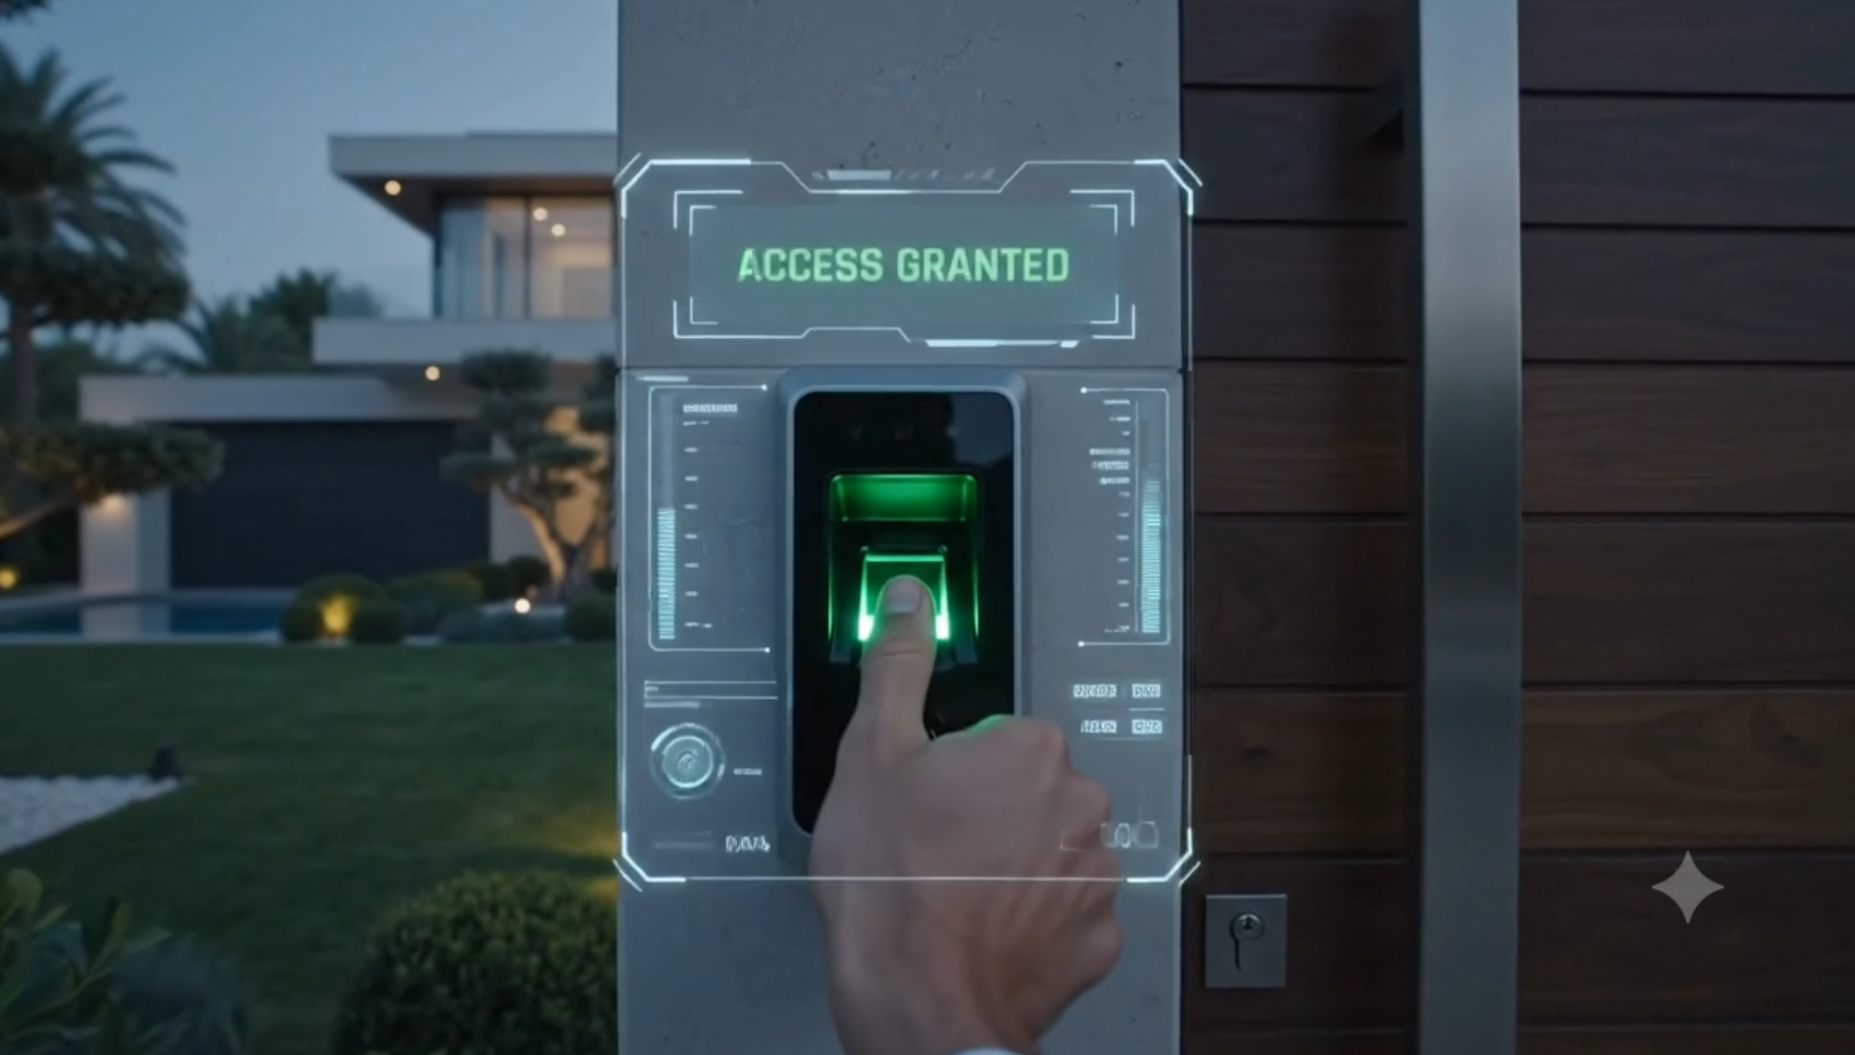
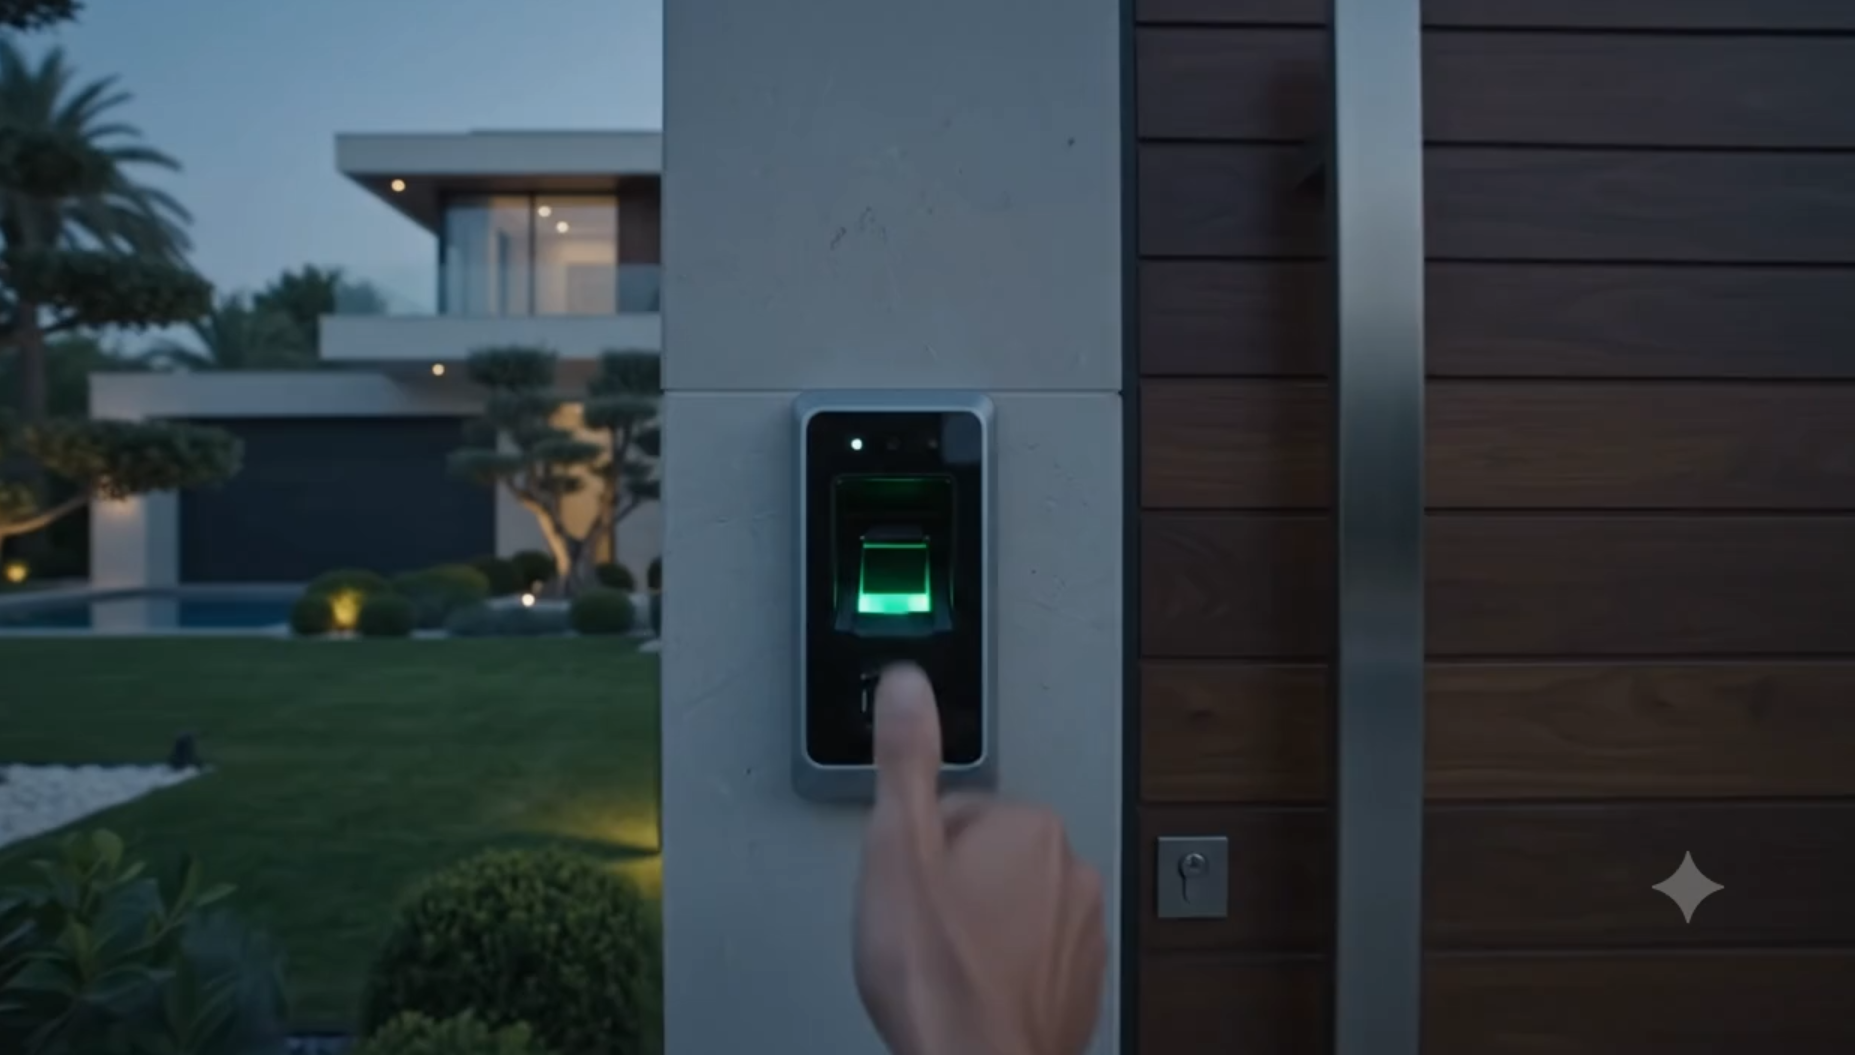
updated poster video. Spiner

diff --git a/index.html b/index.html
@@ -153,7 +153,14 @@
                     <video class="w-full h-full object-cover" muted loop playsinline poster="videos/poster-video1.png">
                         <source data-src="videos/video1.mp4" type="video/mp4">
                     </video>
-                    <div class="absolute inset-0 bg-gradient-to-t from-black/40 to-transparent"></div>
+                    <div class="absolute inset-0 bg-gradient-to-t from-black/40 to-transparent z-10"></div>
+                    <!-- Spinner de carga -->
+                    <div class="video-loader absolute inset-0 flex items-center justify-center z-20 pointer-events-none transition-opacity duration-500 bg-black/20">
+                        <svg class="animate-spin h-12 w-12 text-oroChampagne" xmlns="http://www.w3.org/2000/svg" fill="none" viewBox="0 0 24 24">
+                            <circle class="opacity-25" cx="12" cy="12" r="10" stroke="currentColor" stroke-width="4"></circle>
+                            <path class="opacity-75" fill="currentColor" d="M4 12a8 8 0 018-8V0C5.373 0 0 5.373 0 12h4zm2 5.291A7.962 7.962 0 014 12H0c0 3.042 1.135 5.824 3 7.938l3-2.647z"></path>
+                        </svg>
+                    </div>
                 </div>
                 <div class="w-full md:w-1/2">
                     <h3 class="text-2xl font-bold mb-4" data-i18n="vid1_title">Acceso Biométrico y Bienvenida Inteligente</h3>
@@ -167,7 +174,14 @@
                     <video class="w-full h-full object-cover" muted loop playsinline poster="videos/poster-video2.png">
                         <source data-src="videos/video2.mp4" type="video/mp4">
                     </video>
-                    <div class="absolute inset-0 bg-gradient-to-t from-black/40 to-transparent"></div>
+                    <div class="absolute inset-0 bg-gradient-to-t from-black/40 to-transparent z-10"></div>
+                    <!-- Spinner de carga -->
+                    <div class="video-loader absolute inset-0 flex items-center justify-center z-20 pointer-events-none transition-opacity duration-500 bg-black/20">
+                        <svg class="animate-spin h-12 w-12 text-oroChampagne" xmlns="http://www.w3.org/2000/svg" fill="none" viewBox="0 0 24 24">
+                            <circle class="opacity-25" cx="12" cy="12" r="10" stroke="currentColor" stroke-width="4"></circle>
+                            <path class="opacity-75" fill="currentColor" d="M4 12a8 8 0 018-8V0C5.373 0 0 5.373 0 12h4zm2 5.291A7.962 7.962 0 014 12H0c0 3.042 1.135 5.824 3 7.938l3-2.647z"></path>
+                        </svg>
+                    </div>
                 </div>
                 <div class="w-full md:w-1/2">
                     <h3 class="text-2xl font-bold mb-4" data-i18n="vid2_title">Acceso Vehicular sin Fricción</h3>
@@ -181,7 +195,14 @@
                     <video class="w-full h-full object-cover" muted loop playsinline poster="videos/poster-video3.png">
                         <source data-src="videos/video3.mp4" type="video/mp4">
                     </video>
-                    <div class="absolute inset-0 bg-gradient-to-t from-black/40 to-transparent"></div>
+                    <div class="absolute inset-0 bg-gradient-to-t from-black/40 to-transparent z-10"></div>
+                    <!-- Spinner de carga -->
+                    <div class="video-loader absolute inset-0 flex items-center justify-center z-20 pointer-events-none transition-opacity duration-500 bg-black/20">
+                        <svg class="animate-spin h-12 w-12 text-oroChampagne" xmlns="http://www.w3.org/2000/svg" fill="none" viewBox="0 0 24 24">
+                            <circle class="opacity-25" cx="12" cy="12" r="10" stroke="currentColor" stroke-width="4"></circle>
+                            <path class="opacity-75" fill="currentColor" d="M4 12a8 8 0 018-8V0C5.373 0 0 5.373 0 12h4zm2 5.291A7.962 7.962 0 014 12H0c0 3.042 1.135 5.824 3 7.938l3-2.647z"></path>
+                        </svg>
+                    </div>
                 </div>
                 <div class="w-full md:w-1/2">
                     <h3 class="text-2xl font-bold mb-4" data-i18n="vid3_title">Respuesta Climática Autónoma</h3>
@@ -369,7 +390,7 @@
         }, scrollOptions);
         sections.forEach(section => { observer.observe(section); });
 
-        // 5. Lógica del Carrusel del Showroom (Rotación cada 10s y Lazy Load)
+        // 5. Lógica del Carrusel del Showroom y Spinner
         let currentSlide = 0;
         const totalSlides = 3;
         let slideInterval;
@@ -382,7 +403,6 @@
                     slide.classList.remove('opacity-0', 'z-0', 'pointer-events-none');
                     slide.classList.add('opacity-100', 'z-10');
                     
-                    // Carga diferida del vídeo
                     const source = video.querySelector('source');
                     if (!video.src && source.dataset.src) {
                         source.src = source.dataset.src;
@@ -396,7 +416,6 @@
                 }
             });
 
-            // Actualizar los puntos indicadores
             document.querySelectorAll('.slide-dot').forEach((dot, i) => {
                 dot.className = i === index 
                     ? 'w-3 h-3 rounded-full bg-oroChampagne transition slide-dot cursor-pointer' 
@@ -409,17 +428,14 @@
             goToSlide((currentSlide + 1) % totalSlides);
         }
 
-        // Observador específico para iniciar/pausar el carrusel cuando esté a la vista
         const showroomSection = document.getElementById('showroom');
         const showroomObserver = new IntersectionObserver((entries) => {
             entries.forEach(entry => {
                 if (entry.isIntersecting) {
                     isShowroomVisible = true;
-                    // Iniciar el intervalo y asegurar que el vídeo actual se reproduce
                     slideInterval = setInterval(nextSlide, 10000);
                     const currentVideo = document.querySelectorAll('.carousel-slide')[currentSlide].querySelector('video');
                     
-                    // Aseguramos que el primer video cargue si el usuario baja rápido
                     const source = currentVideo.querySelector('source');
                     if (!currentVideo.src && source.dataset.src) {
                         source.src = source.dataset.src;
@@ -429,7 +445,6 @@
                 } else {
                     isShowroomVisible = false;
                     clearInterval(slideInterval);
-                    // Pausar vídeos para no consumir recursos
                     const currentVideo = document.querySelectorAll('.carousel-slide')[currentSlide].querySelector('video');
                     currentVideo.pause();
                 }
@@ -438,7 +453,6 @@
         
         if (showroomSection) showroomObserver.observe(showroomSection);
 
-        // Control manual a través de los puntos
         document.querySelectorAll('.slide-dot').forEach(dot => {
             dot.addEventListener('click', (e) => {
                 const index = parseInt(e.target.getAttribute('data-target'));
@@ -447,6 +461,23 @@
                 if (isShowroomVisible) {
                     slideInterval = setInterval(nextSlide, 10000);
                 }
+            });
+        });
+
+        // Eventos del Spinner de carga para cada vídeo del carrusel
+        document.querySelectorAll('.carousel-slide video').forEach(video => {
+            const loader = video.parentElement.querySelector('.video-loader');
+            
+            video.addEventListener('playing', () => {
+                if (loader) loader.classList.add('opacity-0');
+            });
+            
+            video.addEventListener('waiting', () => {
+                if (loader) loader.classList.remove('opacity-0');
+            });
+            
+            video.addEventListener('loadstart', () => {
+                if (loader) loader.classList.remove('opacity-0');
             });
         });
     </script>
